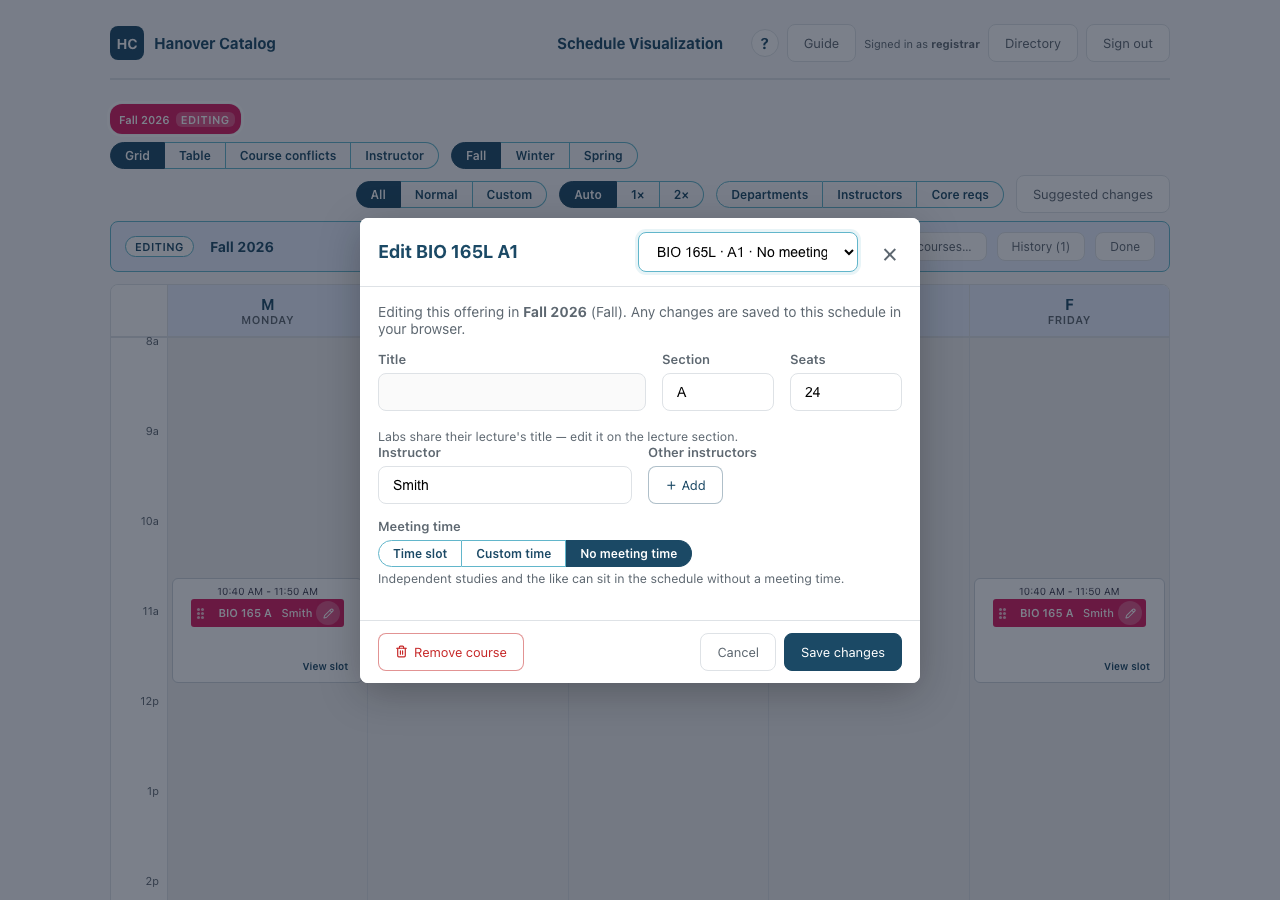
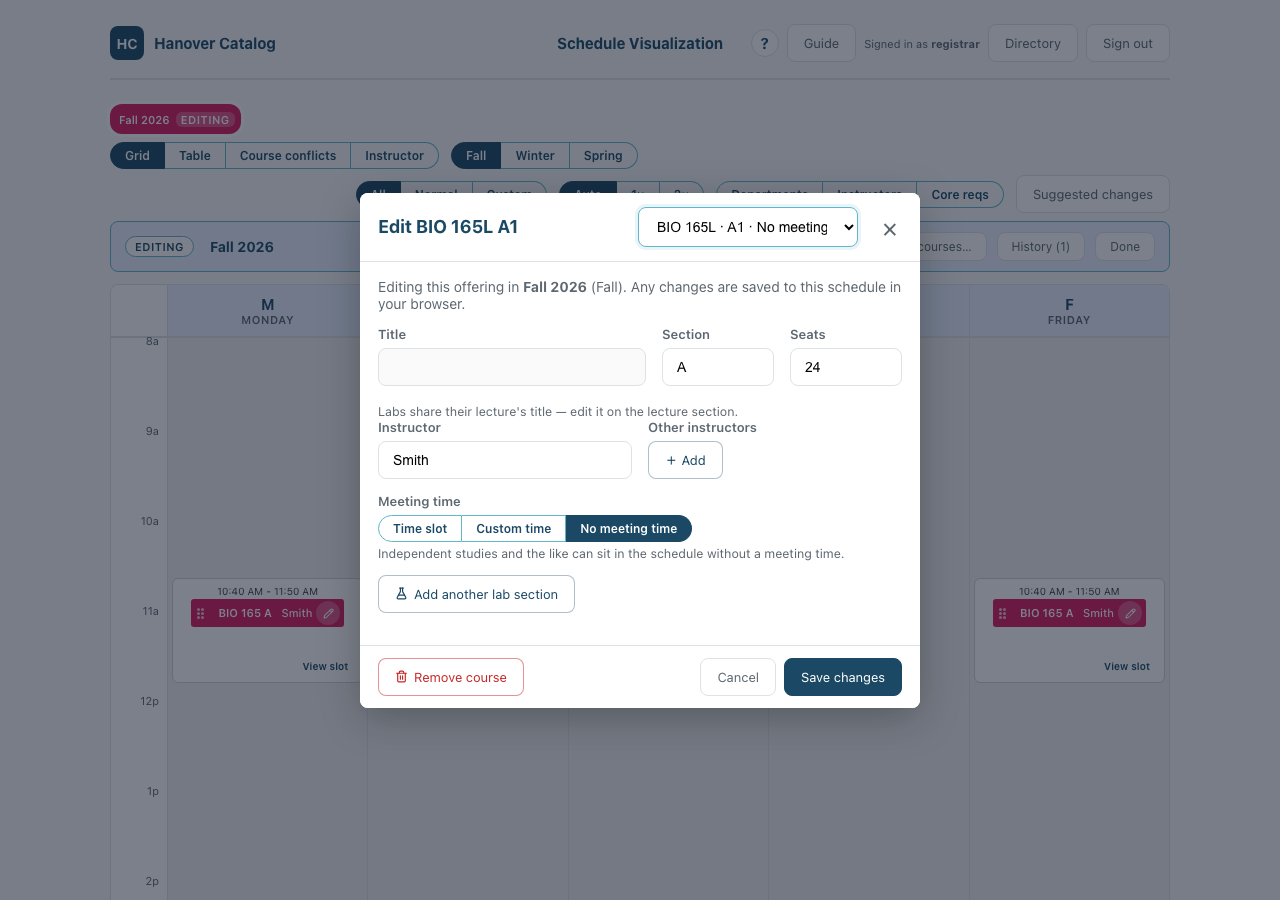
feat(schedule): add another lab section from a lab's editor
A lab's editor now offers 'Add another lab section': addLabSection accepts
a lab cur and duplicates its meeting pattern, instructor, and seats onto
the next labSeq of the same lecture, so a scheduled lab spawns a scheduled
sibling instead of an unscheduled one. The editor shows the action for
labs (gated on the lecture existing) and switches to the new lab. Updates
the store unit test, adds an e2e test, notes the flow in the Adding a lab
guide, and regenerates the screenshot.

Changed region(s): [[0.2812, 0.1867, 0.7188, 0.6844], [0.2812, 0.6844, 0.7188, 0.8089]]

diff --git a/apps/schedule/components/ScheduleCourseEdit.vue b/apps/schedule/components/ScheduleCourseEdit.vue
@@ -284,12 +284,12 @@
             </button>
           </p>
 
-          <div v-if="!isLab" class="add-lab-row">
+          <div v-if="!isLab || labParent" class="add-lab-row">
             <button class="filter-btn add-lab-btn" @click="addLab">
               <IconFlaskConical :size="13" :stroke-width="2.2" />
-              Add lab section
+              {{ isLab ? 'Add another lab section' : 'Add lab section' }}
             </button>
-            <button class="filter-btn add-meeting-btn" @click="addMeeting">
+            <button v-if="!isLab" class="filter-btn add-meeting-btn" @click="addMeeting">
               ＋ Add another meeting time
             </button>
           </div>
@@ -690,15 +690,27 @@ export default {
     // names the offering exactly as the registrar writes it.
     const codeLabel = computed(() => offeringCodeLabel(o))
     const sectionLabel = computed(() => offeringSectionLabel(o))
+    // When editing a lab, the lecture it attaches to (same prefix/number/
+    // section) — the anchor for "Add another lab section". Null for an orphan
+    // lab, which hides the action rather than offering a dead button.
+    const labParent = computed(() =>
+      isLab.value
+        ? /** @type {Array<any>} */ (props.sections || []).find(
+            (s) =>
+              !s.o.lab && s.o.prefix === o.prefix && s.o.number === o.number && s.o.section === o.section,
+          ) || null
+        : null,
+    )
 
-    // Creates the lab (unscheduled, mirroring the lecture's section letter and
-    // copying its instructor) and switches the editor to it, so the user can
-    // give it a time right away — a lab's meeting time is set in the editor,
-    // not by dragging (the grid is behind the modal). Mirrors `addMeeting`:
-    // this form's edits are committed first so the lab copies the section's
-    // latest content, and an unsavable form blocks the add.
+    // Creates a lab and switches the editor to it, so the user can give it a
+    // time right away — a lab's meeting time is set in the editor, not by
+    // dragging (the grid is behind the modal). From a lecture it adds that
+    // lecture's first lab (unscheduled); from a lab it adds the next lab
+    // section, duplicating this lab's meeting pattern. Mirrors `addMeeting`:
+    // this form's edits are committed first so the new lab copies the latest
+    // content, and an unsavable form blocks the add.
     const addLab = () => {
-      if (isLab.value) return
+      if (isLab.value && !labParent.value) return
       if (hasPendingChanges.value) {
         if (!canSave.value) return
         commit()
@@ -707,6 +719,8 @@ export default {
         prefix: o.prefix,
         number: o.number,
         section: o.section,
+        lab: o.lab,
+        labSeq: o.labSeq,
         id: o.id,
       })
       if (!created) return
@@ -1001,6 +1015,7 @@ export default {
       isLab,
       codeLabel,
       sectionLabel,
+      labParent,
       addLab,
       addMeeting,
       hasPendingChanges,

diff --git a/apps/schedule/src/scheduleStore.js b/apps/schedule/src/scheduleStore.js
@@ -1975,23 +1975,33 @@ export function addCourseToSchedule(id, code) {
 // and starts unscheduled (no meeting time) so it lands in the "No meeting
 // times" strip and is dragged onto a slot. `labSeq` is the next free one for
 // that lecture, so a second lab on the same letter stays a distinct row.
-// Returns the new offering (or null when the lecture or schedule can't be
-// found, or `cur` is itself a lab). In a suggest session the lab lands in the
-// draft.
+//
+// `cur` may also be a lab (its editor's "Add another lab section"): the new lab
+// then duplicates that lab's meeting pattern (days/time) and instructor/seats,
+// still attached to the same lecture and taking the next `labSeq`, so a
+// scheduled lab spawns a scheduled sibling. Returns the new offering (or null
+// when the lecture/source lab or schedule can't be found). In a suggest session
+// the lab lands in the draft.
 export function addLabSection(id, cur) {
   const s = scheduleById(id)
-  if (!s || cur.lab) return null
+  if (!s) return null
   const { part, draft } = mutablePart(id)
   if (!part) return null
   const offerings = part.offerings || []
+  // Duplicating a lab: find the row being copied first, so its (current)
+  // section resolves the lecture it attaches to.
+  const source = cur.lab ? offerings.find((o) => o.lab && matchOffering(o, cur)) || null : null
+  if (cur.lab && !source) return null
   // Match the lecture by its content `id` when given (split-meeting rows),
   // else by the section tuple as before.
   const parent = offerings.find(
     (o) =>
       !o.lab &&
-      (cur.id != null && cur.id !== ''
-        ? o.id === cur.id
-        : o.prefix === cur.prefix && o.number === cur.number && o.section === cur.section),
+      (source
+        ? o.prefix === source.prefix && o.number === source.number && o.section === source.section
+        : cur.id != null && cur.id !== ''
+          ? o.id === cur.id
+          : o.prefix === cur.prefix && o.number === cur.number && o.section === cur.section),
   )
   if (!parent) return null
   const lab = {
@@ -1999,13 +2009,13 @@ export function addLabSection(id, cur) {
     number: parent.number,
     section: parent.section,
     title: parent.title || '',
-    instructor: parent.instructor || '',
-    secondaryInstructors: parent.secondaryInstructors || [],
+    instructor: (source ? source.instructor : parent.instructor) || '',
+    secondaryInstructors: [...((source ? source.secondaryInstructors : parent.secondaryInstructors) || [])],
     lab: true,
     labSeq: nextLabSeq(offerings, parent.prefix, parent.number, parent.section),
-    days: '',
-    time: '',
-    seats: DEFAULT_SEATS,
+    days: source ? source.days || '' : '',
+    time: source ? source.time || '' : '',
+    seats: source && source.seats != null ? source.seats : DEFAULT_SEATS,
     id: '',
   }
   lab.id = offeringIdFor(lab)

diff --git a/docs-site/guide/schedule/labs.md b/docs-site/guide/schedule/labs.md
@@ -15,6 +15,10 @@ When you remove the lecture, its labs go with it.
 The new lab starts with **no meeting time**; if you save it that way it waits in
 the strip below the grid until you schedule it.
 
+Need a second lab for the same lecture? From a lab's editor, click **Add another
+lab section** — it copies that lab's time, instructor, and seats into the next
+lab (**A2**, **A3**, …) and switches you to it.
+
 <Shot file="schedule-add-lab.png" />
 
 ## Give the lab a time
